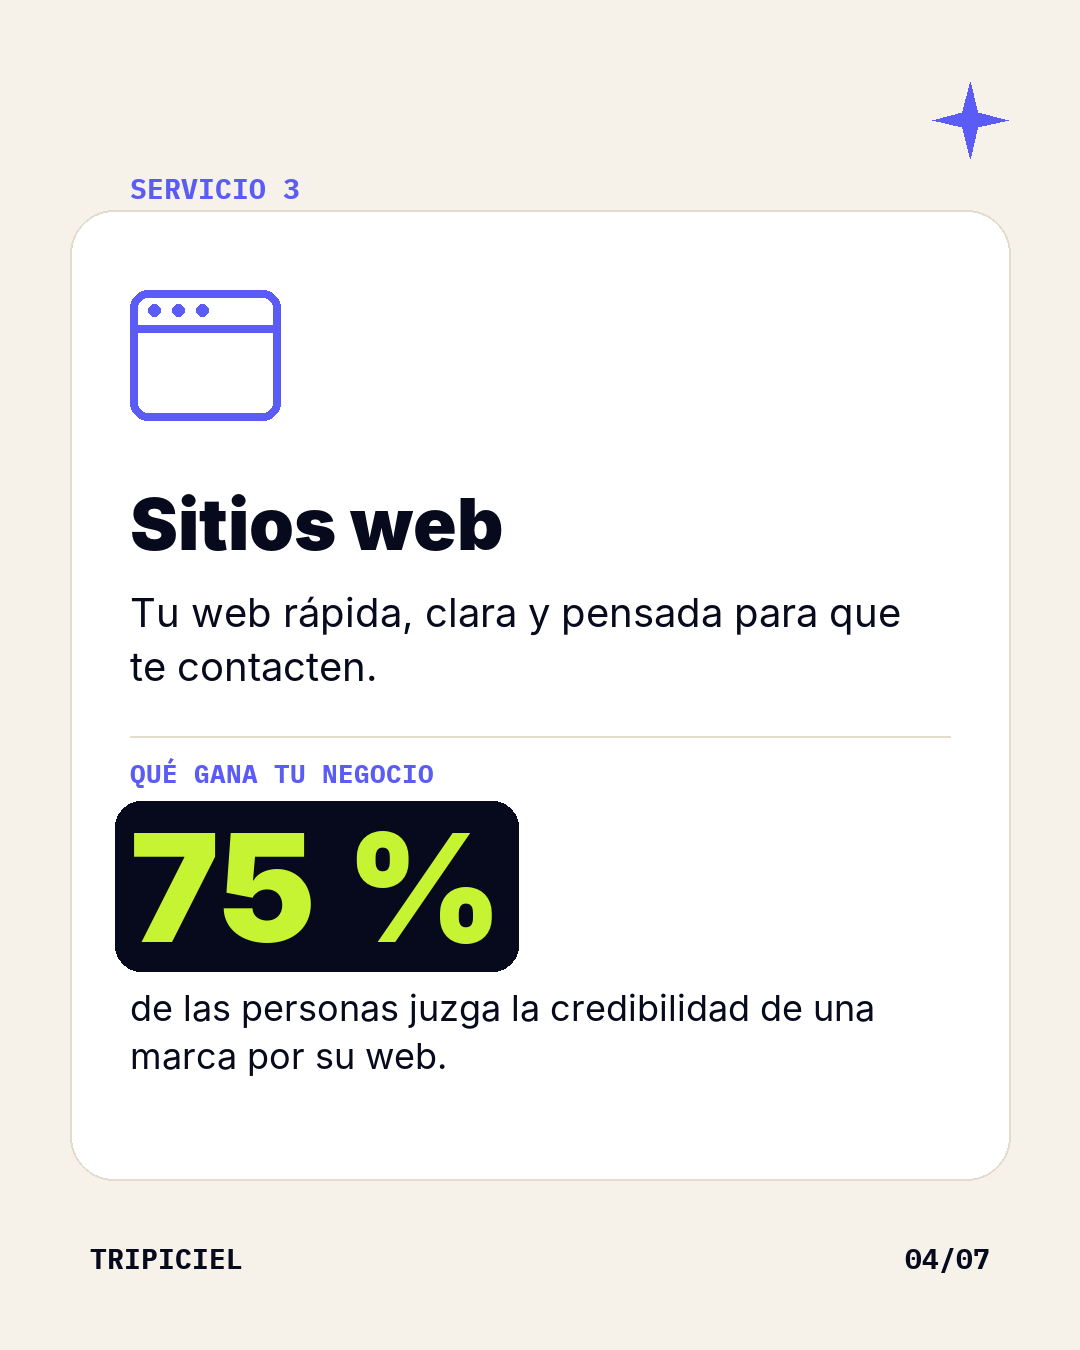
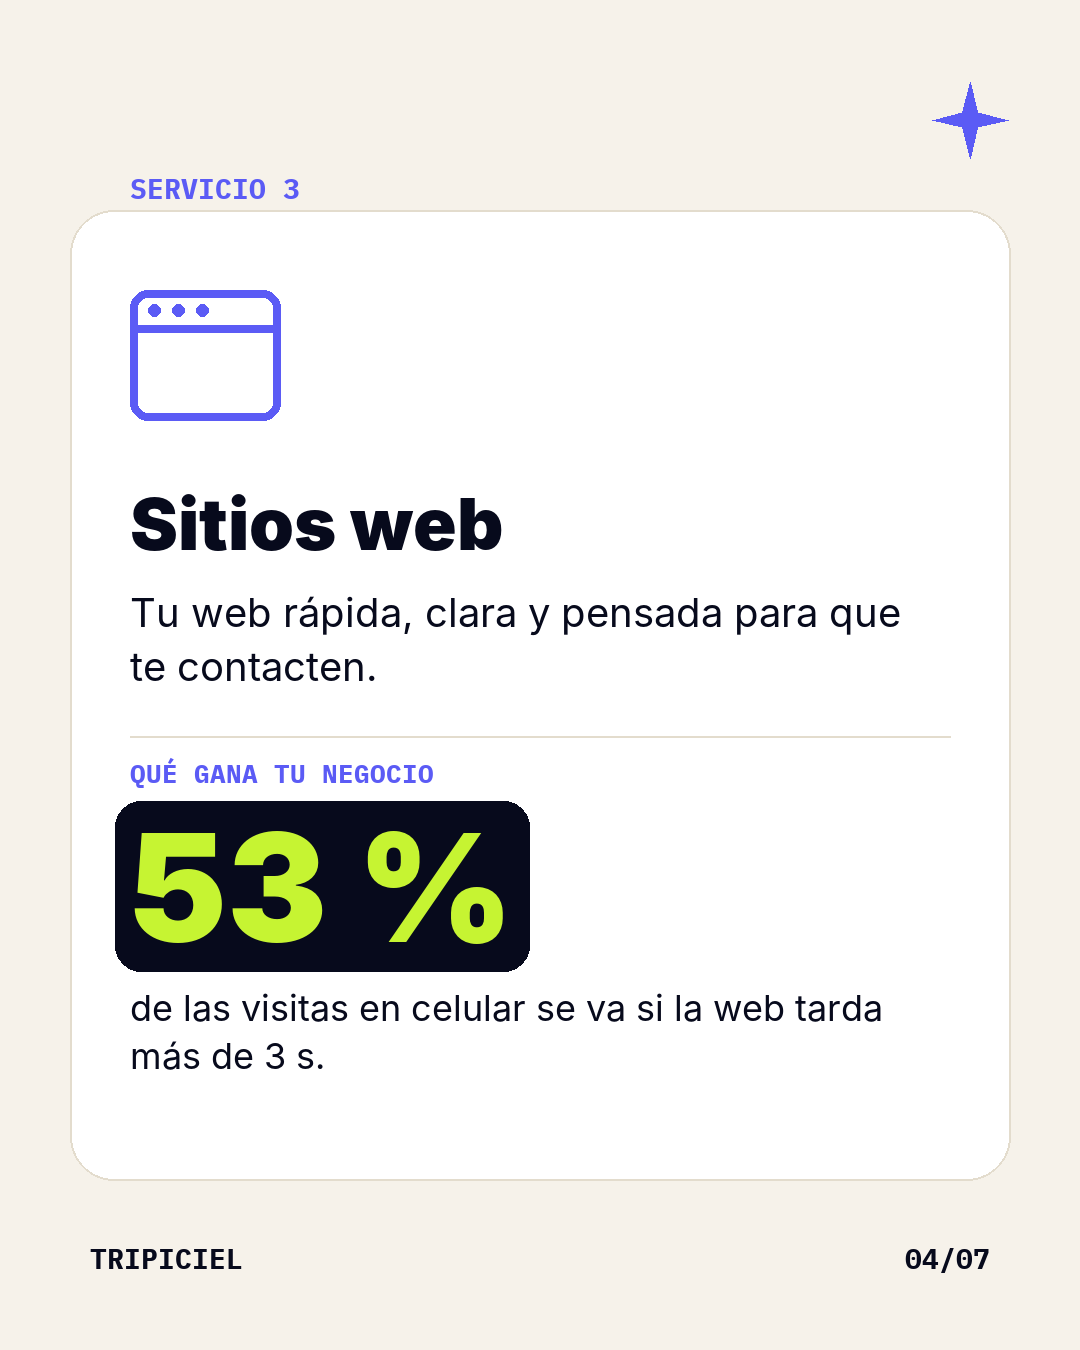
Carrusel día 01: slide 4 con cifra verificable (Google 53 %)

Changed region(s): [[0.1222, 0.5911, 0.825, 0.8089]]

diff --git a/semana-01/dia-01/carrusel/notas.md b/semana-01/dia-01/carrusel/notas.md
@@ -2,6 +2,6 @@
 
 - 87 % (slide 2): Wyzowl, State of Video Marketing 2024. Marketers que dicen que el video aumentó directamente sus ventas (87 % en 2023 y 2024).
 - +10 % (slide 3): Socialinsider, estudio de 22 millones de posts de Instagram. Interacción promedio: carrusel 1,92 % frente a imagen 1,74 % (+10 %). Reemplaza el 1,4x anterior, que no tenía respaldo.
-- 75 % (slide 4): atribuido al Stanford Web Credibility Research (B. J. Fogg). Se cita en todas partes, pero no se ubicó la fuente primaria. Usar con cautela o reemplazar.
+- 53 % (slide 4): Google, «The Need for Mobile Speed» (2016), con datos de más de 10.000 dominios. Visitas en celular que se abandonan si la página tarda más de 3 s en cargar. Reemplaza el 75 % de Stanford, cuya fuente primaria no se encontró.
 - 90 % (slide 5): encuesta de HubSpot Research de 2018, citada en el State of Service 2022. Clientes que califican una respuesta "inmediata" como importante o muy importante.
 - 76 % (slide 6): Sprout Social, Pulse Survey del 2.º trimestre de 2025. Usuarios que dicen que las redes influyeron en sus compras de los últimos seis meses. El texto se corrigió: antes decía "compró algo que vio".
